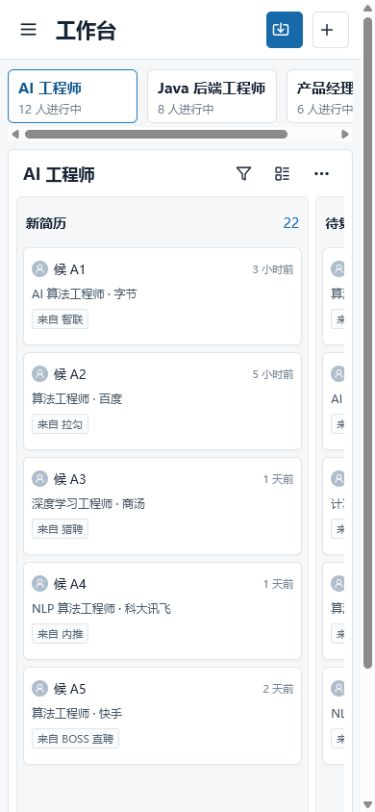
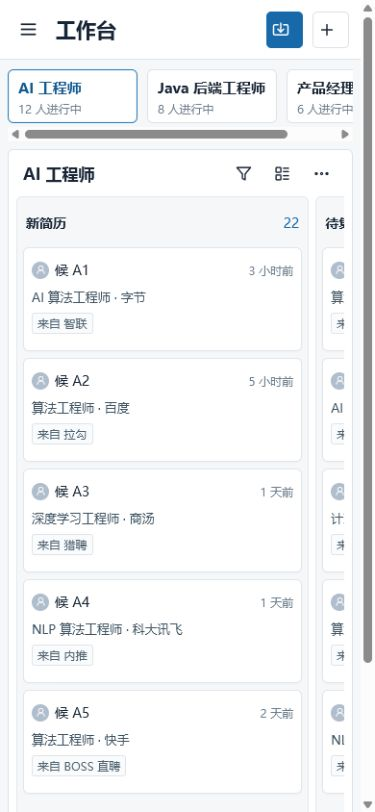
Increase ATS card and task text sizes

diff --git a/docs/design/prototypes/ats-low-fi-option-2/src/styles.css b/docs/design/prototypes/ats-low-fi-option-2/src/styles.css
@@ -55,12 +55,12 @@ button:focus-visible, input:focus-visible, select:focus-visible, textarea:focus-
 .stage { min-width: 0; background: var(--panel); border: 1px solid #e4e9ed; border-radius: 6px; padding: 0 6px 7px; display: flex; flex-direction: column; }
 .stage > header { height: 52px; display: flex; align-items: center; justify-content: space-between; padding: 0 3px; }.stage > header strong { font-size: 14px; }.stage > header span { color: var(--blue); font-size: 14px; }
 .stage-list { display: grid; gap: 7px; align-content: start; }
-.candidate-card { width: 100%; min-height: 102px; padding: 10px 8px; border: 1px solid #e1e6eb; border-radius: 6px; background: #fff; box-shadow: 0 1px 2px rgba(27,45,64,.03); cursor: pointer; text-align: left; overflow: hidden; }
+.candidate-card { width: 100%; min-height: 108px; padding: 7px 8px; border: 1px solid #e1e6eb; border-radius: 6px; background: #fff; box-shadow: 0 1px 2px rgba(27,45,64,.03); cursor: pointer; text-align: left; overflow: hidden; }
 .candidate-card:hover { border-color: #86add0; box-shadow: 0 3px 7px rgba(27,65,98,.08); }
-.candidate-line { display: flex; align-items: center; gap: 6px; font-size: 13px; white-space: nowrap; }.candidate-line strong { font-weight: 500; }.avatar-mini { width: 17px; height: 17px; border-radius: 50%; background: #afbdcc; color: #fff; display: inline-flex; align-items: center; justify-content: center; flex: 0 0 auto; }
-.age { color: #778695; font-size: 11px; margin-left: auto; overflow: hidden; text-overflow: ellipsis; }.candidate-role { color: #465867; font-size: 12px; margin-top: 9px; white-space: nowrap; overflow: hidden; text-overflow: ellipsis; }
-.source-tag { display: inline-block; max-width: 100%; margin-top: 8px; padding: 2px 5px; color: #596a78; border: 1px solid #dfe4e8; border-radius: 3px; background: #fafbfc; font-size: 11px; white-space: nowrap; overflow: hidden; text-overflow: ellipsis; }
-.meta-line { display: flex; align-items: center; gap: 5px; margin-top: 7px; color: #426985; font-size: 11px; }.meta-line svg { color: #2785c7; }.candidate-note { color: #748390; font-size: 11px; margin-top: 9px; }
+.candidate-line { display: flex; align-items: center; gap: 6px; font-size: 14px; white-space: nowrap; }.candidate-line strong { font-weight: 500; }.avatar-mini { width: 18px; height: 18px; border-radius: 50%; background: #afbdcc; color: #fff; display: inline-flex; align-items: center; justify-content: center; flex: 0 0 auto; }
+.age { color: #6c7d8c; font-size: 12px; margin-left: auto; overflow: hidden; text-overflow: ellipsis; }.candidate-role { color: #3e5363; font-size: 13px; margin-top: 10px; white-space: nowrap; overflow: hidden; text-overflow: ellipsis; }
+.source-tag { display: inline-block; max-width: 100%; margin-top: 8px; padding: 2px 5px; color: #506574; border: 1px solid #dfe4e8; border-radius: 3px; background: #fafbfc; font-size: 12px; white-space: nowrap; overflow: hidden; text-overflow: ellipsis; }
+.meta-line { display: flex; align-items: center; gap: 5px; margin-top: 8px; color: #386783; font-size: 12px; }.meta-line svg { color: #2785c7; }.candidate-note { color: #687b89; font-size: 12px; margin-top: 10px; }
 .load-more { margin-top: auto; min-height: 40px; border: 0; background: transparent; color: #596977; display: flex; align-items: flex-end; justify-content: center; gap: 4px; padding-bottom: 5px; cursor: pointer; font-size: 12px; }
 
 .duplicate-alert { min-height: 58px; margin-top: 8px; padding: 8px 9px 8px 16px; border: 1px solid #efa74a; border-radius: 5px; background: #fffdf9; display: flex; align-items: center; gap: 13px; color: #e88818; }
@@ -70,11 +70,11 @@ button:focus-visible, input:focus-visible, select:focus-visible, textarea:focus-
 .right-rail { min-width: 0; display: grid; align-content: start; gap: 11px; }.rail-section { border: 1px solid var(--line); border-radius: 6px; background: #fff; overflow: hidden; }
 .rail-section > header { height: 53px; padding: 0 11px; display: flex; align-items: center; justify-content: space-between; }.rail-section h3 { margin: 0; font-size: 14px; }.rail-section header > button:not(.icon-button) { color: var(--blue); background: transparent; border: 0; cursor: pointer; font-size: 11px; }
 .right-rail .rail-section:first-child { min-height: 684px; }
-.rail-group { padding: 14px 12px 12px; border-top: 1px solid #e6eaee; }.rail-group-title { display: flex; align-items: center; gap: 6px; font-weight: 600; font-size: 12px; }.rail-group-title button { margin-left: auto; border: 0; background: transparent; color: var(--blue); cursor: pointer; font-size: 11px; }
+.rail-group { padding: 14px 12px 12px; border-top: 1px solid #e6eaee; }.rail-group-title { display: flex; align-items: center; gap: 6px; font-weight: 600; font-size: 14px; }.rail-group-title button { margin-left: auto; border: 0; background: transparent; color: var(--blue); cursor: pointer; font-size: 12px; }
 .status-dot { width: 7px; height: 7px; border-radius: 50%; display: inline-block; }.status-dot.red { background: #e75e71; }.status-dot.orange { background: #f4a62a; }.status-dot.blue { background: #3994d5; }
-.rail-item { width: 100%; padding: 10px 0 3px; border: 0; background: transparent; display: block; text-align: left; cursor: pointer; color: #465462; font-size: 12px; }.rail-item:hover { color: var(--blue); }.rail-item small { display: block; margin-top: 5px; color: #748392; font-size: 10px; }
-.expand-link { margin-top: 6px; border: 0; background: transparent; padding: 0; display: flex; align-items: center; gap: 3px; cursor: pointer; font-size: 11px; }.rail-group.compact p { margin: 8px 0; color: #4f6070; font-size: 11px; }
-.calendar-card { padding-bottom: 9px; }.calendar-row { width: 100%; padding: 8px 12px; border: 0; background: transparent; display: flex; justify-content: space-between; cursor: pointer; font-size: 12px; }.calendar-row:hover { background: #f6f8fa; }.calendar-row strong { font-weight: 500; }.more-calendar { margin: 3px 12px 0; border: 0; background: transparent; color: #647584; display: flex; align-items: center; gap: 5px; cursor: pointer; font-size: 11px; }
+.rail-item { width: 100%; padding: 8px 0 2px; border: 0; background: transparent; display: block; text-align: left; cursor: pointer; color: #3d5060; font-size: 13px; }.rail-item:hover { color: var(--blue); }.rail-item small { display: block; margin-top: 5px; color: #687b8b; font-size: 12px; }
+.expand-link { margin-top: 7px; border: 0; background: transparent; padding: 0; display: flex; align-items: center; gap: 3px; cursor: pointer; font-size: 12px; }.rail-group.compact p { margin: 9px 0; color: #445969; font-size: 12px; }
+.calendar-card { padding-bottom: 9px; }.calendar-row { width: 100%; padding: 7px 12px; border: 0; background: transparent; display: flex; justify-content: space-between; cursor: pointer; font-size: 12px; }.calendar-row:hover { background: #f6f8fa; }.calendar-row strong { font-weight: 500; }.more-calendar { margin: 3px 12px 0; border: 0; background: transparent; color: #647584; display: flex; align-items: center; gap: 5px; cursor: pointer; font-size: 11px; }
 
 .list-view { min-height: 708px; border: 1px solid #e3e7eb; border-radius: 5px; overflow: hidden; }.list-head, .list-row { display: grid; grid-template-columns: 1.5fr 1fr 1.4fr 45px; align-items: center; padding: 0 15px; }.list-head { height: 42px; background: #f4f6f8; color: #667482; font-size: 12px; }.list-row { width: 100%; height: 55px; border: 0; border-top: 1px solid #e6eaee; background: #fff; text-align: left; cursor: pointer; font-size: 12px; }.list-row:hover { background: #f8fafb; }.list-row > span:first-child { display: flex; align-items: center; gap: 8px; }
 

diff --git a/docs/design/prototypes/ats-low-fi-option-2/design-qa.md b/docs/design/prototypes/ats-low-fi-option-2/design-qa.md
@@ -6,6 +6,7 @@
 - Implementation: `http://127.0.0.1:4174/`
 - Browser-rendered desktop screenshot: `implementation-1440x1024-final.png`
 - Browser-rendered mobile screenshot: `implementation-390x844-final.png`
+- User feedback crops: `feedback-candidate-text.png`, `feedback-task-text.png`
 - Viewport: 1440 × 1024 desktop; 390 × 844 mobile
 - State: 工作台、AI 工程师、候选人看板默认状态
 
@@ -49,6 +50,7 @@ Browser console errors checked: none.
 2. Increased pipeline and task-rail height, adjusted footer spacing to remove desktop overflow, and added candidates B5, C5, and E5.
 3. Re-captured the implementation at 1440 × 1024 and repeated full-view and focused-region comparison. Earlier density and content mismatches are resolved.
 4. User review identified text that was too small and a narrow task rail. Candidate and task text was increased by 1–2 px, metadata contrast was strengthened, and the rail was widened from 220 px to 260 px. The revised desktop capture remains overflow-free and the mobile layout remains usable.
+5. A second user review identified the candidate-card copy and right-rail task copy as still too small. Candidate names were raised to 14 px, role text to 13 px, and metadata to 12 px; task-group headings were raised to 14 px, task rows to 13 px, and supporting text to 12 px. Card and row spacing was rebalanced so the 1440 × 1024 desktop remains overflow-free.
 
 ## Findings
 